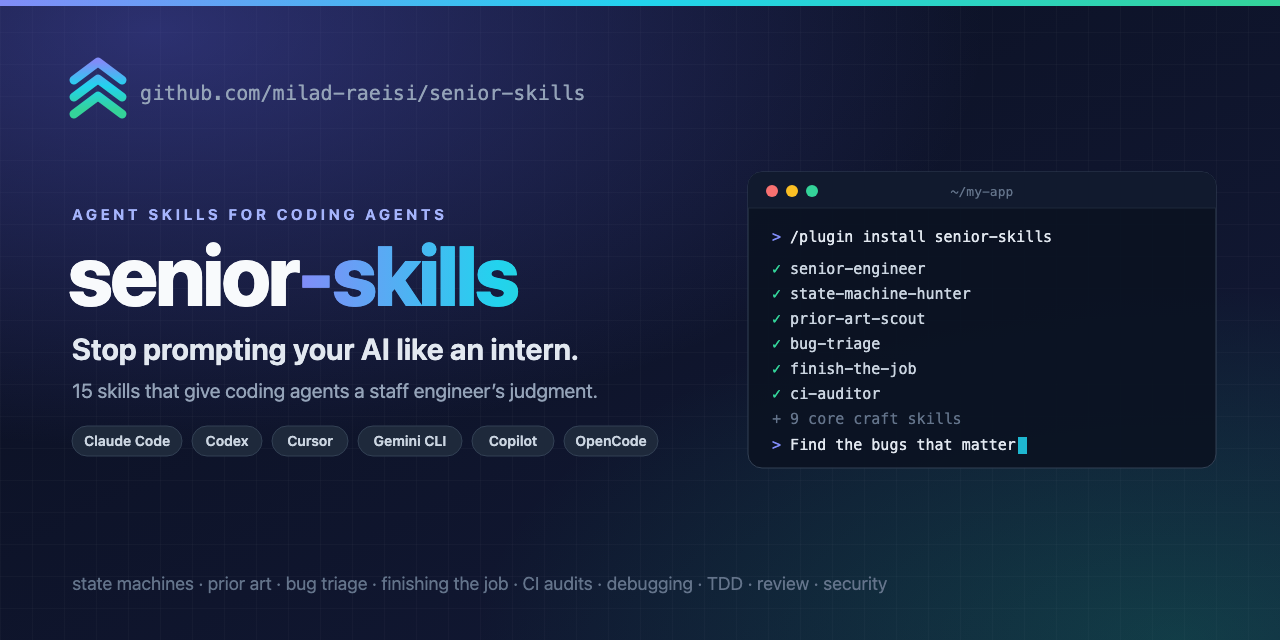
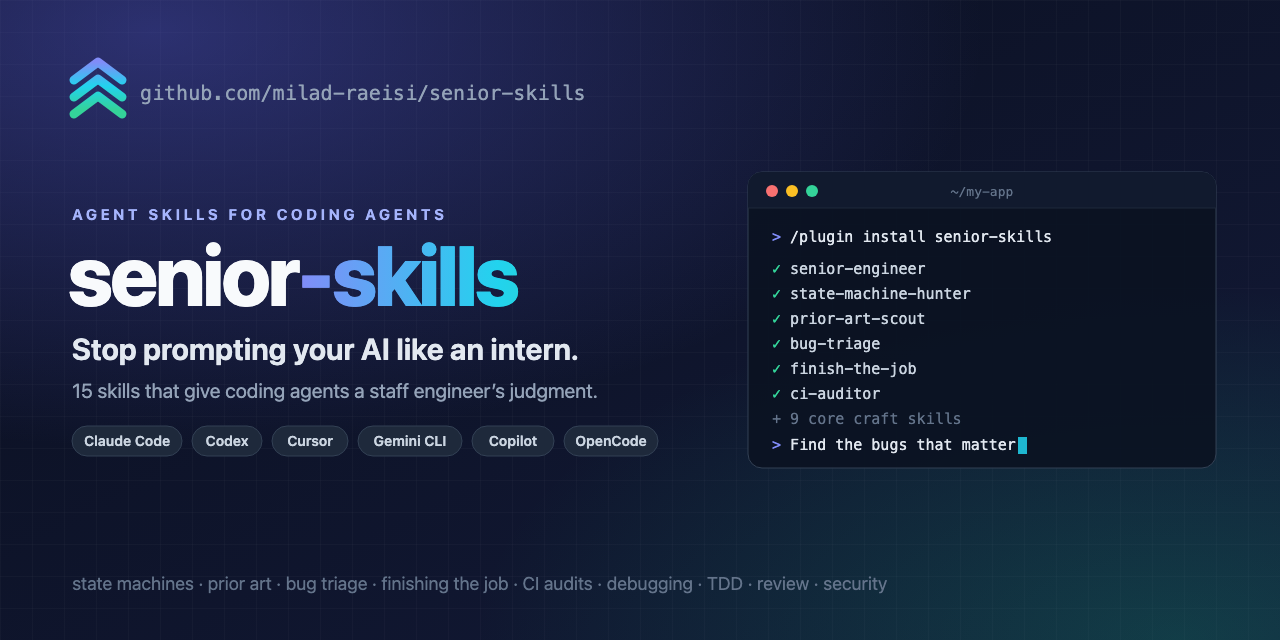
Beginner-friendly quick start with install/update card; drop colored top borders
- README quick start: a two-step install/update card (assets/quickstart.svg),
  GitHub TIP/IMPORTANT callouts for npx senior-skills and
  npx senior-skills@latest update, a step-by-step guide for people new to
  the terminal, a command table, a safety section, and troubleshooting.
- The troubleshooting fix for 'could not determine executable to run'
  (use @latest) was reproduced and verified against the published package.
- Remove the colored top border from the banner, social preview, and card.
- CI: run the CLI tests on Windows, since the guide covers PowerShell.

Changed region(s): [[0.0, 0.0, 1.0, 0.0312]]

diff --git a/README.md b/README.md
@@ -49,28 +49,110 @@ The model isn't the bottleneck. **The instructions are.** senior-skills replaces
 
 ## ⚡ Quick start
 
-One command. No clone, no fork:
+<p align="center">
+  <img src="assets/quickstart.svg" alt="Step 1, install: npx senior-skills. Step 2, update: npx senior-skills@latest update." width="100%">
+</p>
+
+> [!TIP]
+> **Install** with one command. No clone, no fork, no account.
+>
+> ```bash
+> npx senior-skills
+> ```
+>
+> It finds the coding agents on your machine (Claude Code, Codex, Cursor, Gemini CLI, Copilot, OpenCode, Windsurf) and gives each one all 15 skills. Then restart your agent.
+
+> [!IMPORTANT]
+> **Update** whenever you like. New skills and improvements arrive with one command:
+>
+> ```bash
+> npx senior-skills@latest update
+> ```
+>
+> Keep the `@latest`: it makes `npx` fetch the newest release instead of reusing a copy it cached earlier.
+
+<details>
+<summary><b>👋 New to the terminal? A step-by-step guide (about 2 minutes)</b></summary>
+
+<br>
+
+**1. Open a terminal.** On macOS, open **Terminal** (press <kbd>⌘</kbd> + <kbd>Space</kbd> and type "Terminal"). On Windows, open **PowerShell**. On Linux, open your usual terminal.
+
+**2. Check that Node.js is installed.** Type this and press <kbd>Enter</kbd>:
+
+```bash
+node --version
+```
+
+You should see `v20` or higher, for example `v22.11.0`. If you see `command not found` or a lower number, install the **LTS** version from [nodejs.org](https://nodejs.org), then close and reopen the terminal. `npx` comes with Node.js, so there's nothing else to install.
+
+**3. Install the skills.**
 
 ```bash
 npx senior-skills
 ```
 
-It finds the coding agents on your machine (Claude Code, Codex, Cursor, Gemini CLI, Copilot, OpenCode, Windsurf) and installs all 15 skills for each one. Skills you already have are never overwritten silently.
+The first time, npm may ask `Ok to proceed? (y)`. Press <kbd>Enter</kbd>. You'll see one line for each agent it found:
 
-```bash
-npx senior-skills --agent claude              # one agent: claude, codex, cursor, gemini, copilot, opencode, windsurf, all
-npx senior-skills --dir ./.agents/skills      # a project folder, shared with your team through git
-npx senior-skills --only bug-triage,ci-auditor
-npx senior-skills list                        # see what's inside
+```text
+senior-skills 1.2.0: installing 15 skill(s)
+
+  ✓ Claude Code     ~/.claude/skills  (15 added)
+  ✓ Cursor          ~/.cursor/skills  (15 added)
 ```
 
-**Update** to the newest release at any time; new skills are added too:
+**4. Restart your agent.** Close and reopen Claude Code, Cursor, or whichever agent you use, so it loads the new skills.
 
-```bash
-npx senior-skills@latest update
-```
+**5. Try it.** Open a project and ask your agent something like *"Find the bugs that matter in this project"* or *"Audit this repo's CI"*. You don't need to name a skill; the right one loads by itself.
 
-Copies you edited yourself are backed up to `~/.senior-skills/backups/` before they're replaced, and a skill from somewhere else that happens to share a name is left alone. Needs Node.js 20 or newer.
+**6. Stay up to date.** Every now and then, run `npx senior-skills@latest update`.
+
+</details>
+
+<details>
+<summary><b>🧭 All commands and options</b></summary>
+
+<br>
+
+| You want to | Run |
+|---|---|
+| Install for every agent on this machine | `npx senior-skills` |
+| Update to the newest release | `npx senior-skills@latest update` |
+| Install for one agent only | `npx senior-skills --agent claude`<br><sub>also `codex`, `cursor`, `gemini`, `copilot`, `opencode`, `windsurf`, or `all`</sub> |
+| Install into a project, shared with your team through git | `npx senior-skills --dir ./.agents/skills` |
+| Install only some skills | `npx senior-skills --only bug-triage,ci-auditor` |
+| See which skills are included | `npx senior-skills list` |
+| See every option | `npx senior-skills --help` |
+
+</details>
+
+<details>
+<summary><b>🛡 Is it safe? What it does to your files</b></summary>
+
+<br>
+
+- It only writes the 15 senior-skills folders into your agents' skills folders, such as `~/.claude/skills`. Your other skills are never modified.
+- `install` never overwrites: if a skill is already there, it is kept.
+- `update` replaces only copies that came from senior-skills. If you edited one yourself, your version is saved to `~/.senior-skills/backups/<time>/` first.
+- A different skill that happens to have the same name is left alone unless you add `--force`.
+- It has no dependencies, collects no data, and makes no network calls of its own; npm only downloads the package. The whole installer is one readable file: [`bin/senior-skills.mjs`](bin/senior-skills.mjs).
+
+</details>
+
+<details>
+<summary><b>🧰 Troubleshooting</b></summary>
+
+<br>
+
+| You see | What to do |
+|---|---|
+| `command not found: npx` or `node` | Install Node.js 20 or newer from [nodejs.org](https://nodejs.org), then open a new terminal. |
+| `could not determine executable to run` | An old copy is installed in the folder you're in, or in a folder above it. Run `npx senior-skills@latest`, which always uses the published version. |
+| The skills don't show up in your agent | Restart the agent, then check that the folder the installer printed exists. |
+| `Some installed skills differ from this version and were kept` | You already had an older or edited copy. Run `npx senior-skills@latest update`. |
+| Something else | [Open an issue](https://github.com/milad-raeisi/senior-skills/issues/new/choose) with the command you ran and what you saw. |
+
+</details>
 
 **Prefer a Claude Code plugin?** Install from the marketplace and get updates through `/plugin`:
 
